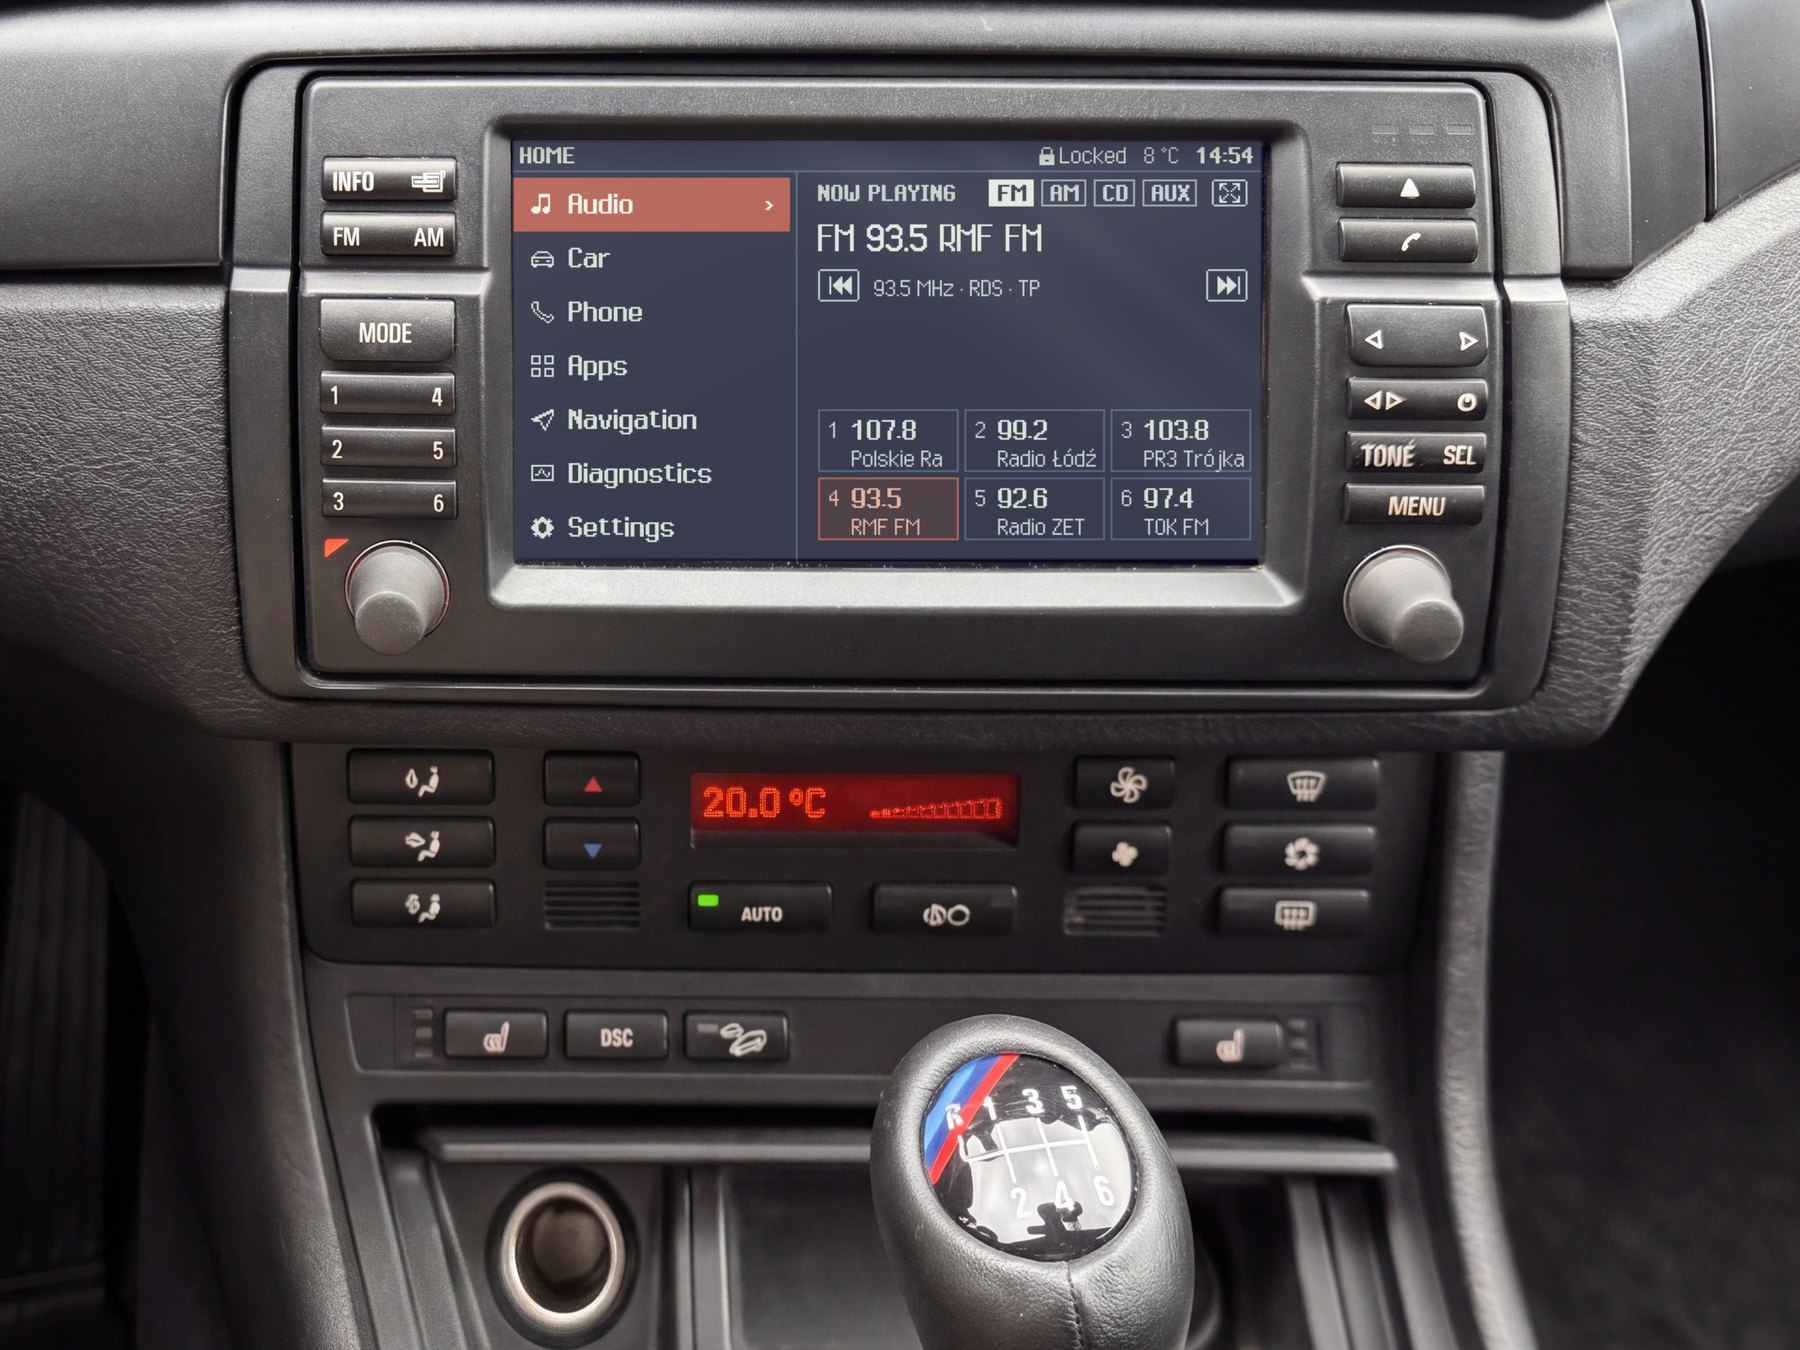
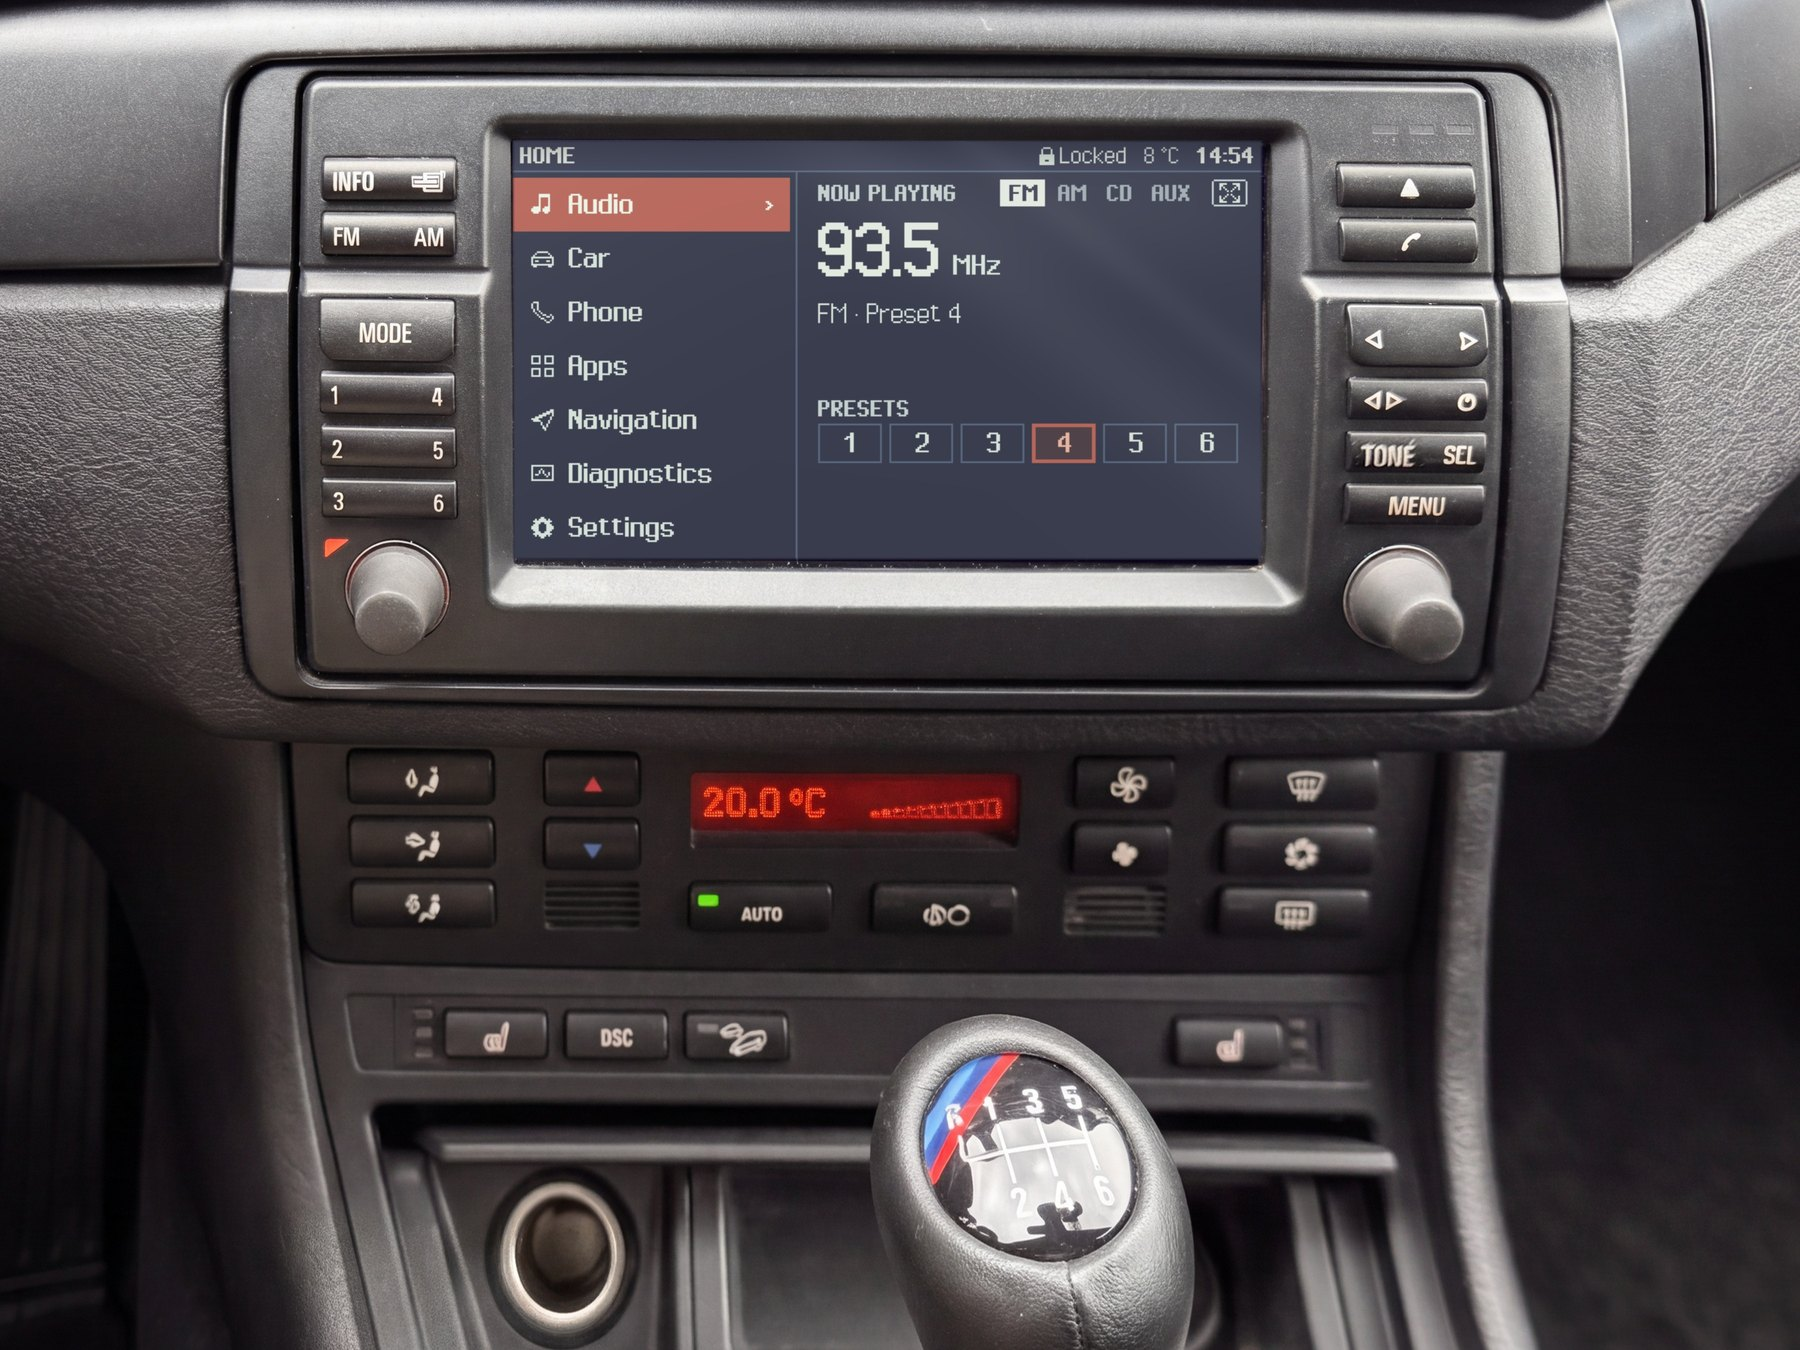
navx: Audio as a display (large frequency, CD changer), advert with the current screen
Claude-Session: https://claude.ai/code/session_01V7gBdsU4u62Ajb22va6Ae4

Changed region(s): [[0.4356, 0.28, 0.6844, 0.4044], [0.4356, 0.1244, 0.6844, 0.2489], [0.6533, 0.1867, 0.6844, 0.2178]]

diff --git a/docs/tools/navx/shell.md b/docs/tools/navx/shell.md
@@ -74,12 +74,14 @@ full, split, home.
 
 The radio screen is a display, not a remote. The BMBT's own buttons already
 tune, seek and store presets, and they go to the radio directly — so the
-screen doesn't repeat them. It shows what the radio reports: a large
-frequency, the station name, the presets with the playing one marked, and
-radio text. The CD screen follows the same idea with disc and track; CD
-text only if the car sends it.
+screen doesn't repeat them. It shows what the radio reports and nothing it
+doesn't: a large frequency, the band and the presets with the playing one
+marked. The CD screen does the same with disc and track and the changer's
+magazine; there's no CD text, because the changer doesn't send any.
 
-![The radio on the full screen (earlier version; the large-frequency layout is being drawn)](/navx/shell/audio-full.png)
+![The radio on the full screen](/navx/shell/audio-full.png)
+
+![The CD changer](/navx/shell/audio-cd.png)
 
 ## Car
 
